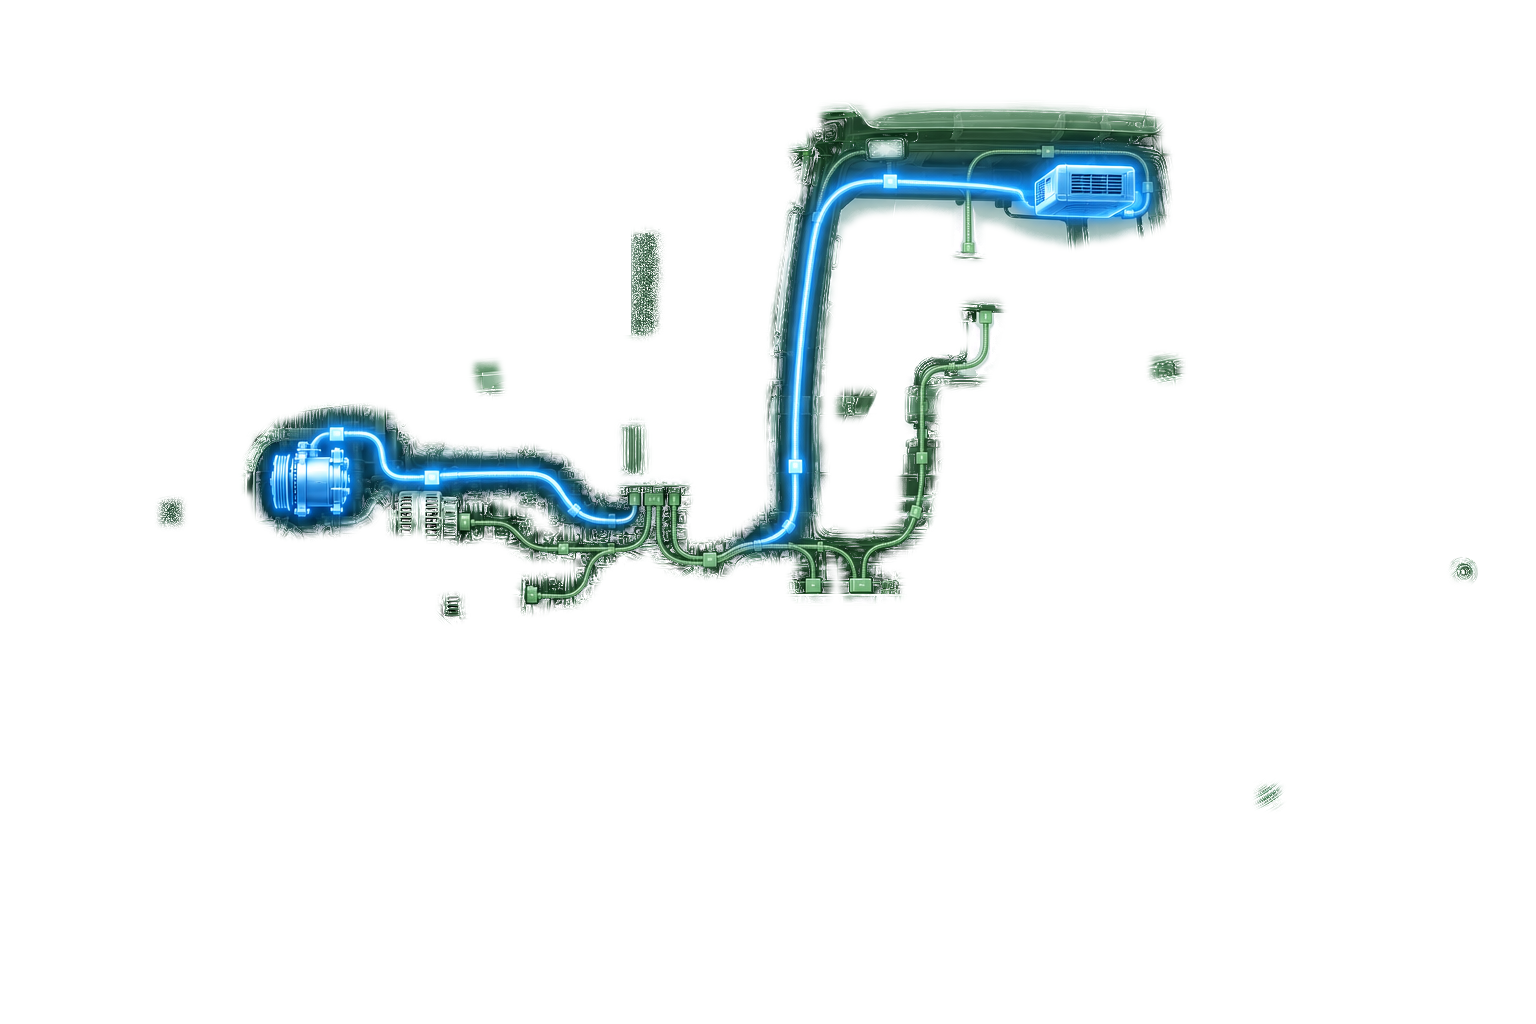
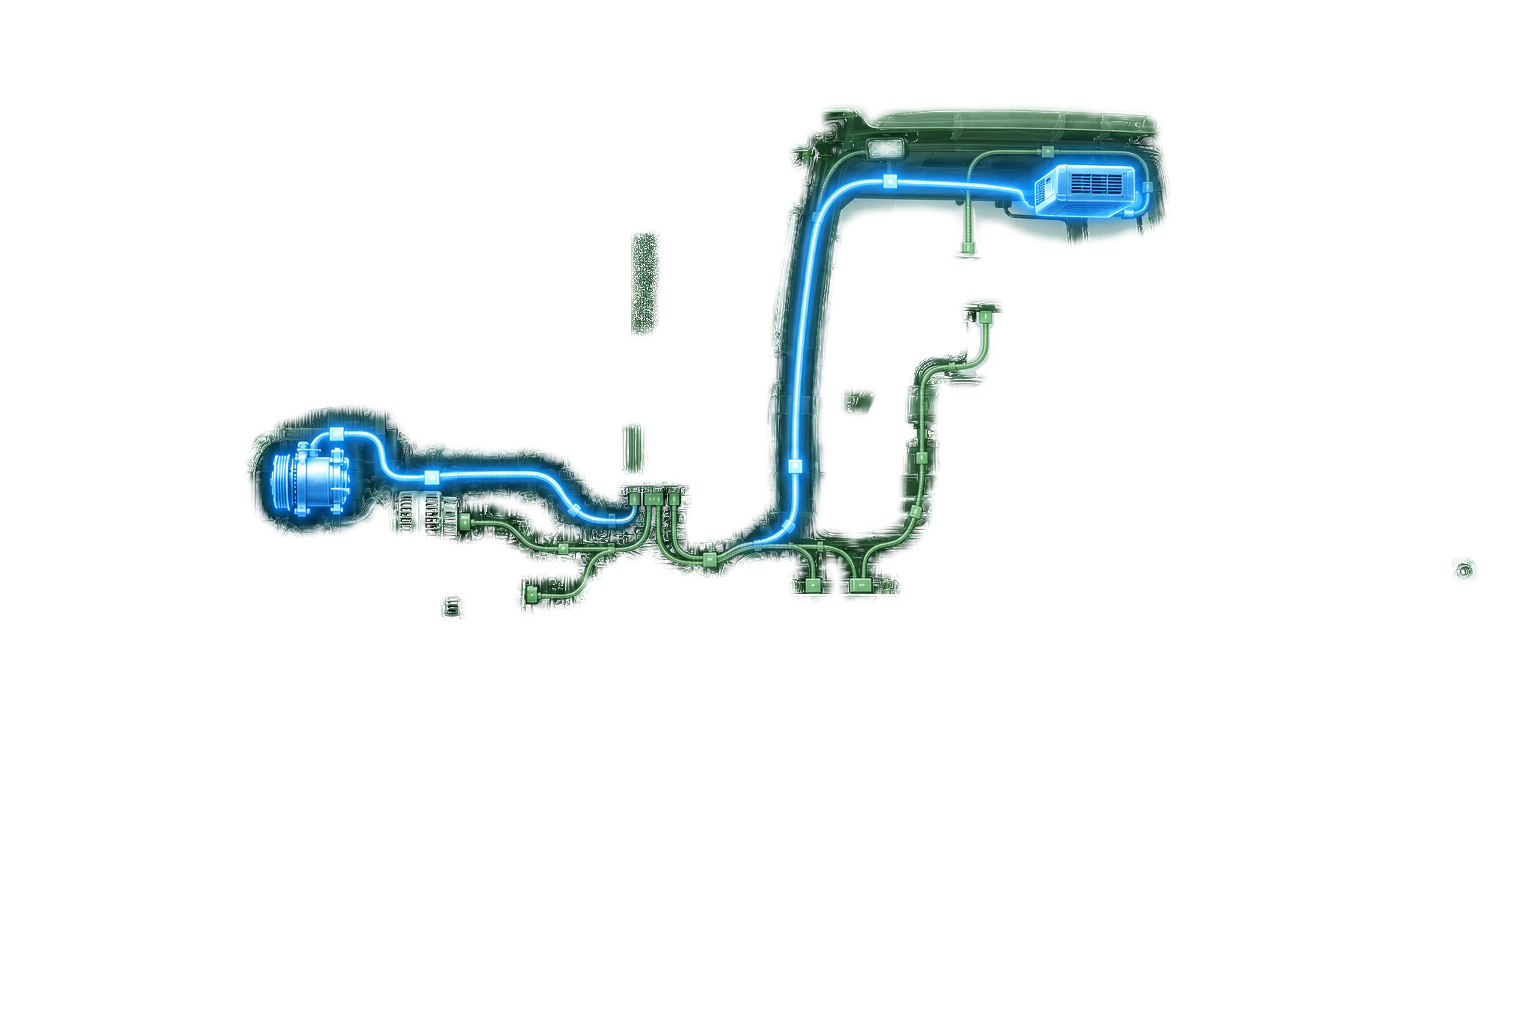
F3: первый экран не прыгает ни на одной ширине, слои легче 60 КБ
Ревью: на 977/375 карточка причины переменной высоты сдвигала следующую секцию, три слоя на DPR 2 весили 61–68 КБ, sizes на 977 занижал ширину.

Autopilot-Run: 2026-11-03-redesign
Requirements: R15, R16

diff --git a/src/assets/css/main.css b/src/assets/css/main.css
@@ -424,11 +424,12 @@ textarea.field__input { resize: vertical; min-height: 96px; }
 .symptom__icon { width: 22px; height: 22px; color: var(--forest); }
 .symptom__mark { position: absolute; top: 6px; right: 6px; display: flex; align-items: center; justify-content: center; width: 20px; height: 20px; border-radius: 50%; border: 1.5px solid var(--line-strong); background: var(--surface); }
 .symptom__mark .icon { width: 12px; height: 12px; stroke-width: 3; color: #fff; opacity: 0; }
-.symptom[aria-pressed="true"] { border: 2px solid var(--brand); background: var(--tint-live); font-weight: 600; color: var(--forest); }
+/* Толщина рамки нажатой плитки — внутренней тенью, а не border: высота ряда не меняется при выборе (история 18). */
+.symptom[aria-pressed="true"] { border-color: var(--brand); box-shadow: inset 0 0 0 1px var(--brand); background: var(--tint-live); font-weight: 600; color: var(--forest); }
 .symptom[aria-pressed="true"] .symptom__mark { background: var(--brand); border-color: var(--brand); }
 .symptom[aria-pressed="true"] .symptom__mark .icon { opacity: 1; }
 .symptom[aria-pressed="false"] .symptom__mark, a.symptom .symptom__mark { opacity: .9; }
-.symptom[data-system="climate"][aria-pressed="true"] { border-color: var(--frost); background: #E7F0FA; }
+.symptom[data-system="climate"][aria-pressed="true"] { border-color: var(--frost); box-shadow: inset 0 0 0 1px var(--frost); background: #E7F0FA; }
 .symptom[data-system="climate"][aria-pressed="true"] .symptom__mark { background: var(--frost); border-color: var(--frost); }
 a.symptom .symptom__mark { display: none; }
 
@@ -479,10 +480,13 @@ a.xray__tag:focus-visible, button.xray__tag:focus-visible { outline: 3px solid v
 .xray-card { grid-area: card; position: relative; z-index: 5; display: grid; grid-template-columns: auto minmax(0, 1fr); align-items: center; gap: 12px 16px; margin-top: 16px; padding: 16px; background: var(--surface); border-radius: var(--r-card); box-shadow: var(--shadow-2); }
 .xray-card__icon { display: flex; color: var(--brand); }
 .xray-card__icon .icon { width: 40px; height: 40px; stroke-width: 1.5; }
-.xray-card__body { min-width: 0; }
+.xray-card__body { min-width: 0; display: grid; }
+/* Видимый текст и невидимые копии всех причин в одной ячейке: высота карточки — по самой длинной (история 18). */
+.xray-card__text, .xray-card__sizer { grid-area: 1 / 1; min-width: 0; }
+.xray-card__sizer { visibility: hidden; pointer-events: none; }
 .xray-card__title { margin: 0 0 4px; font: 600 var(--step-1)/1.3 var(--font-text); color: var(--forest); }
 .xray-card__meta { display: flex; flex-wrap: wrap; gap: 0 12px; margin: 0; color: var(--muted); }
-.xray-card__meta a { font-weight: 600; }
+.xray-card__service { font-weight: 600; }
 .xray-card__price { white-space: nowrap; color: var(--ink); font-weight: 600; }
 .xray-card__cta { grid-column: 1 / -1; }
 

diff --git a/src/index.11tydata.js b/src/index.11tydata.js
@@ -3,8 +3,9 @@ import { faqLd, itemListLd } from "../lib/seo.js";
 
 const home = () => loadCollection("pages").find((p) => p.slug === "home");
 
-// «Рентген» трактора (тикет 00): картинки src/assets/images/xray/tractor-xray-<system>.png,
-// координаты в процентах от картинки. Точка неисправности — у узла своей системы.
+// «Рентген» трактора: база src/assets/images/xray/tractor-xray-base.png и поверх неё прозрачные слои
+// tractor-xray-<system>-layer.png (см. layers ниже). Координаты — в процентах от картинки,
+// точка неисправности — у узла своей системы.
 const XRAY_DIR = "/assets/images/xray";
 const XRAY_SYSTEMS = {
   start: { x: 31.6, y: 57.6, tone: "fault", alt: "подсвечена цепь пуска: аккумулятор и стартер" },

diff --git a/lib/images.js b/lib/images.js
@@ -1,5 +1,6 @@
 // Шорткод {% image src, alt, sizes, eager %} → <picture> с AVIF и WebP (interfaces.md §3).
 // src — публичный путь вида /assets/uploads/x.jpg; файл ищется в src/.
+// eager: true — грузить сразу с fetchpriority="high"; "eager" — сразу, без повышенного приоритета.
 import fs from "node:fs";
 import path from "node:path";
 import Image from "@11ty/eleventy-img";
@@ -33,7 +34,7 @@ export function createImageShortcode({ inputDir, outputDir }) {
       sizes,
       loading: eager ? "eager" : "lazy",
       decoding: "async",
-      ...(eager ? { fetchpriority: "high" } : {}),
+      ...(eager === true ? { fetchpriority: "high" } : {}),
     });
   };
 }

diff --git a/scripts/make-xray-layers.py b/scripts/make-xray-layers.py
@@ -22,9 +22,9 @@ DIR = Path(__file__).resolve().parent.parent / "src" / "assets" / "images" / "xr
 SYSTEMS = ["start", "charge", "ecu", "cab", "harness", "climate"]
 
 NOISE_BLUR = 2.5   # размытие разницы перед порогом, px
-ZONE_MIN = 26      # порог разницы, с которого пиксель считается частью цепи
+ZONE_MIN = 28      # порог разницы, с которого пиксель считается частью цепи (28 и ореол 9 — слой avif ≤ 60 КБ)
 OPEN_SIZE = 9      # открытие: убирает линии тоньше ~9 px (шум по контурам)
-HALO_SIZE = 11     # расширение зоны на ореол свечения
+HALO_SIZE = 9      # расширение зоны на ореол свечения
 EDGE_BLUR = 3      # мягкий край зоны, px
 ALPHA_LOW, ALPHA_HIGH = 3, 28  # разница, при которой альфа 0 и 1
 
